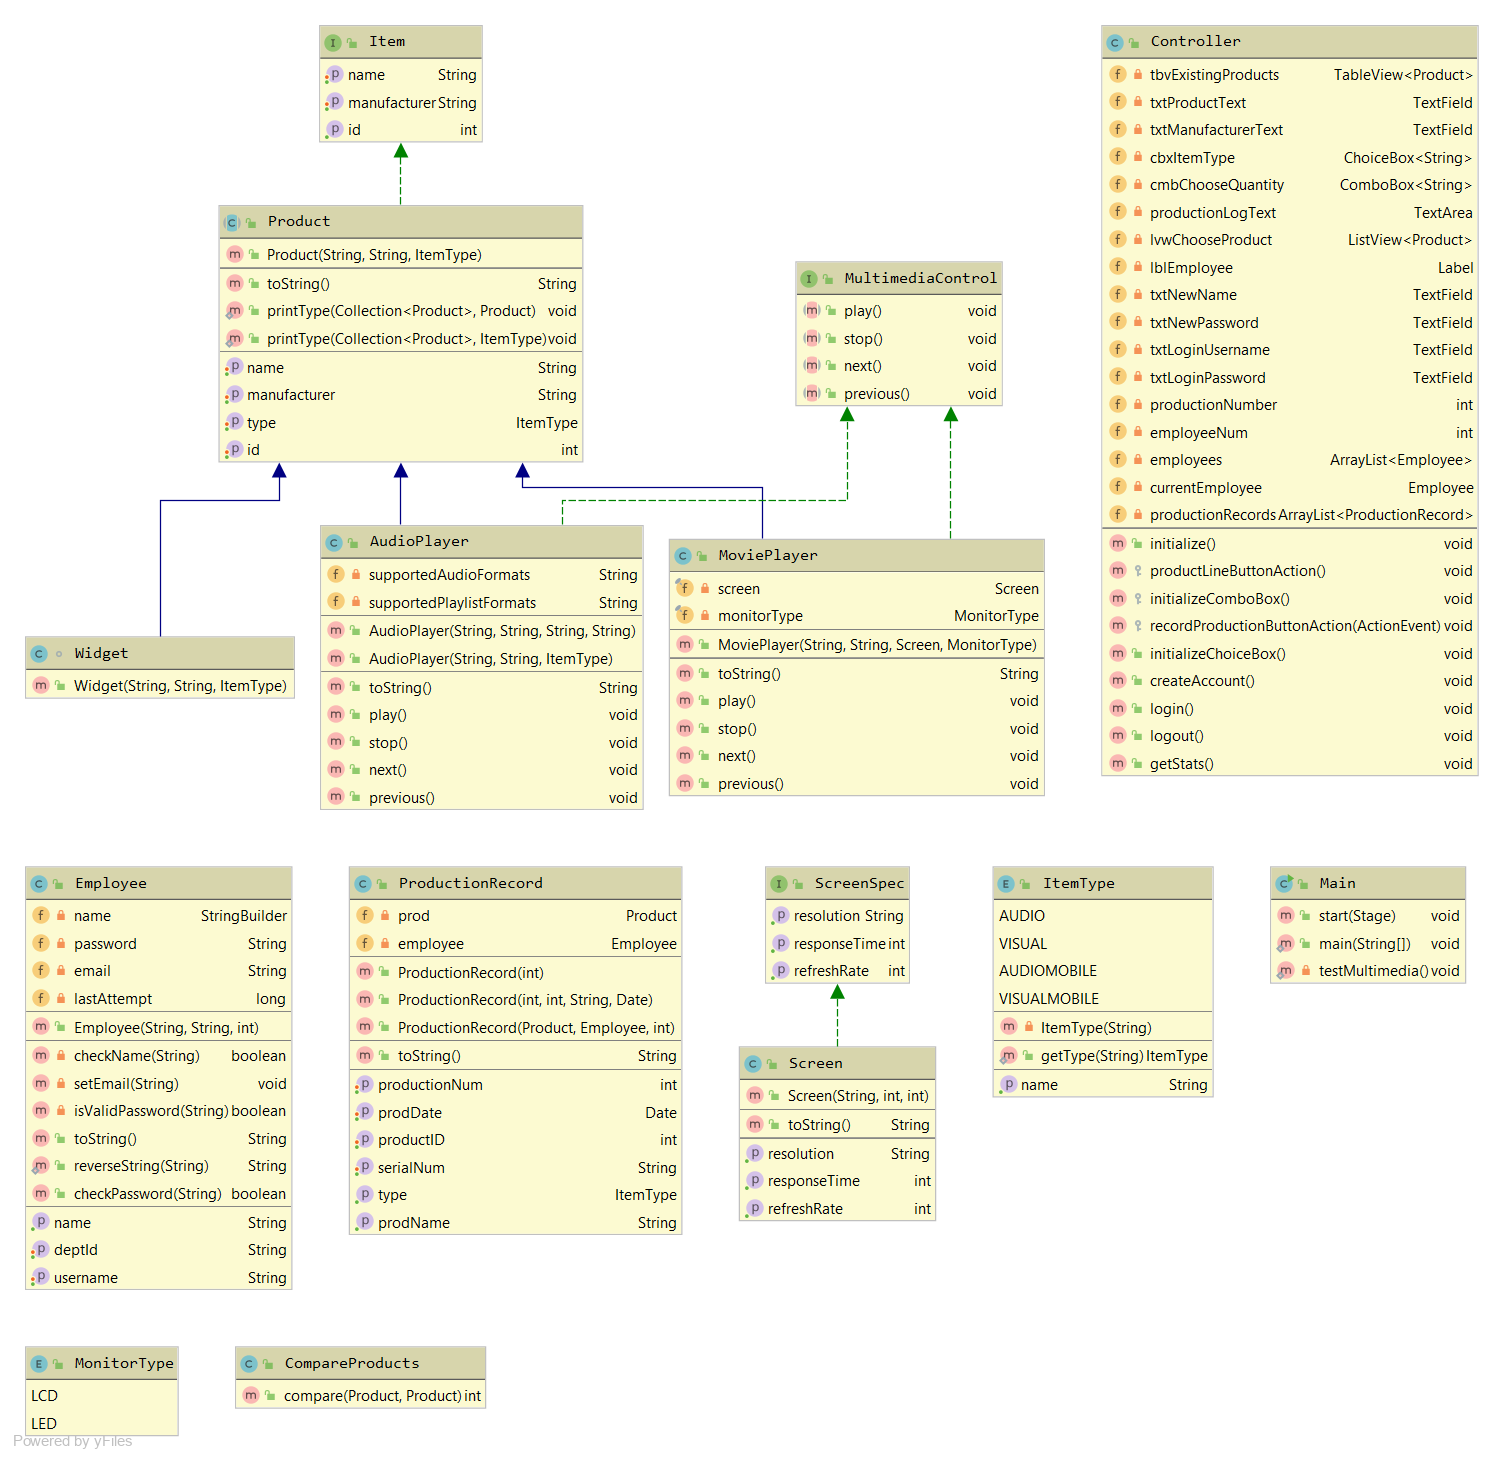
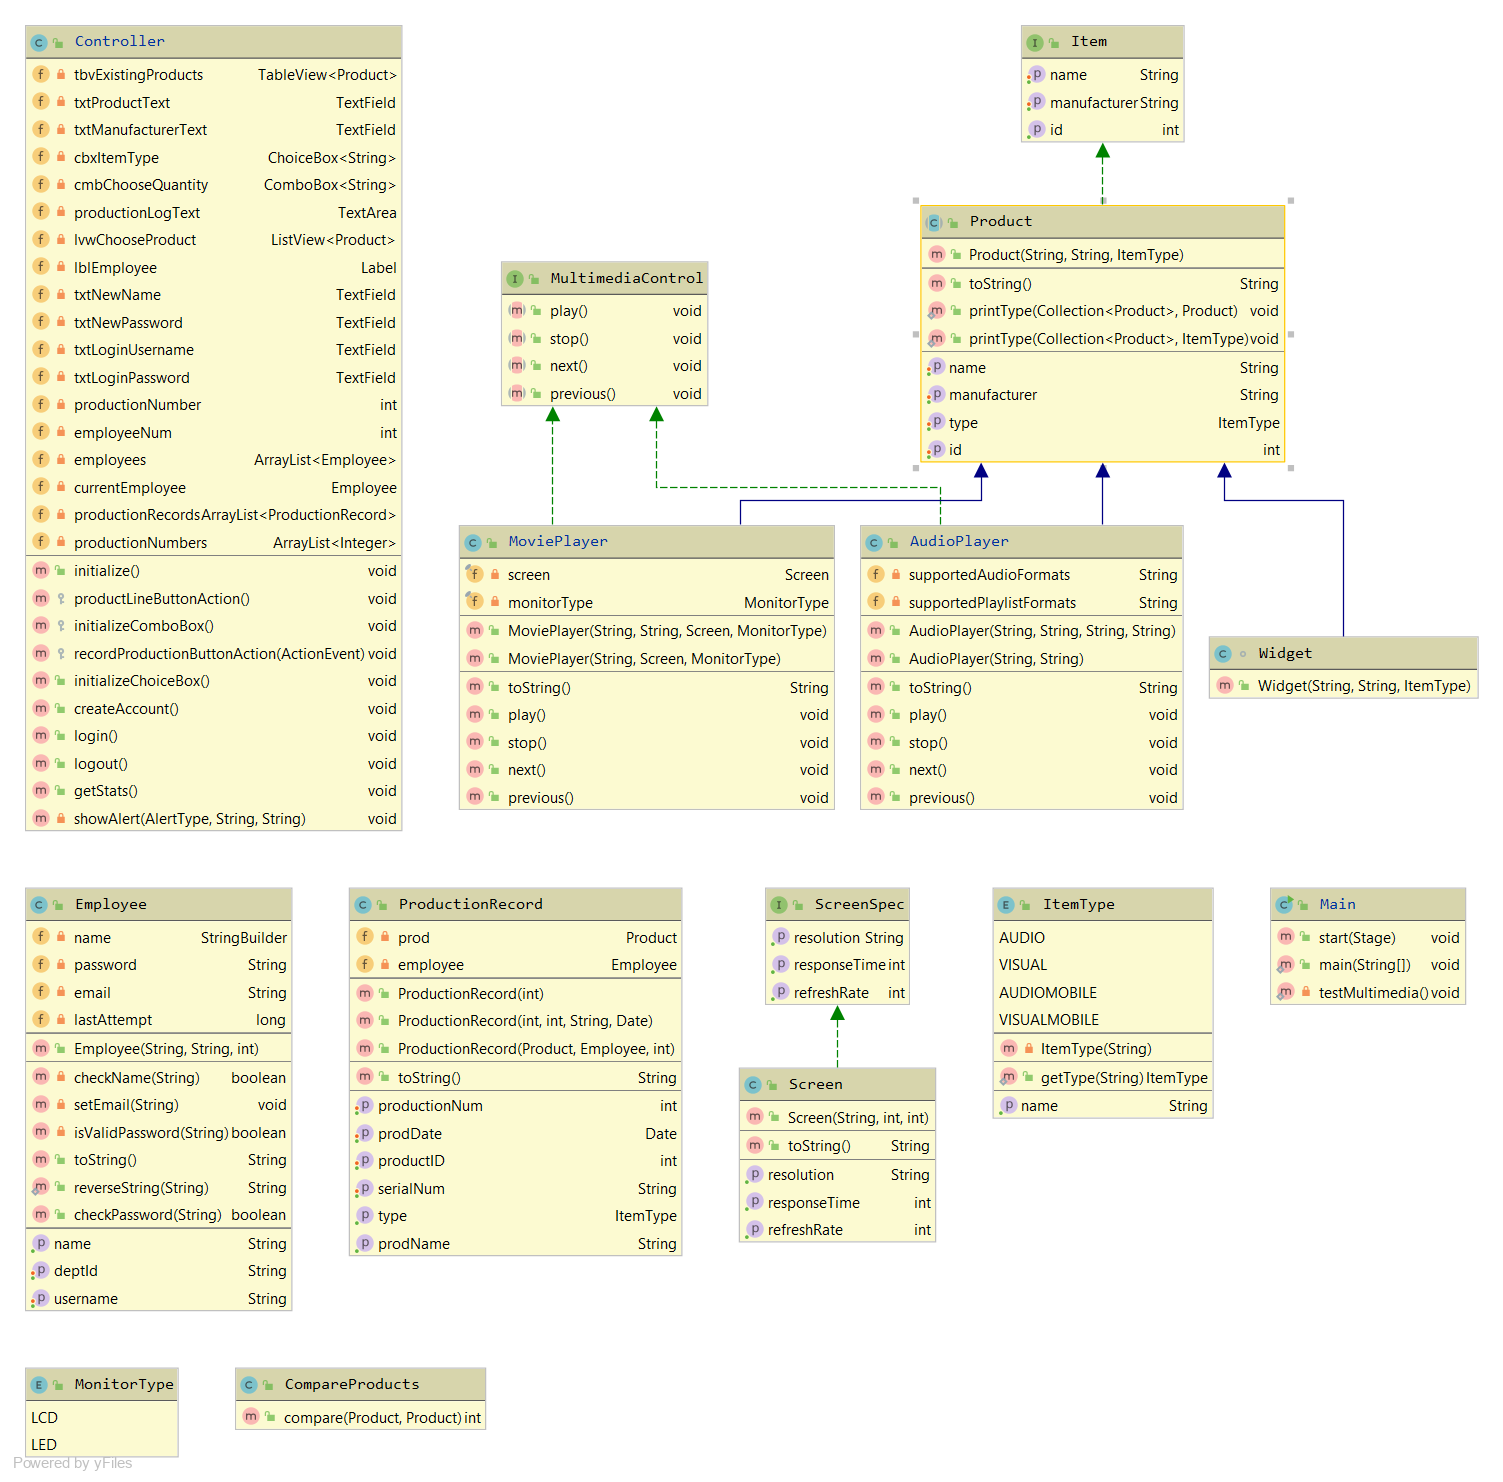
Fixed deviations from project specifications

diff --git a/docs/tomsh/MoviePlayer.html b/docs/tomsh/MoviePlayer.html
@@ -2,9 +2,9 @@
 <!-- NewPage -->
 <html lang="en">
 <head>
-<!-- Generated by javadoc (1.8.0_131) on Sun Nov 24 03:04:24 EST 2019 -->
+<!-- Generated by javadoc (1.8.0_131) on Sat Nov 30 02:17:11 EST 2019 -->
 <title>MoviePlayer</title>
-<meta name="date" content="2019-11-24">
+<meta name="date" content="2019-11-30">
 <link rel="stylesheet" type="text/css" href="../stylesheet.css" title="Style">
 <script type="text/javascript" src="../script.js"></script>
 </head>
@@ -138,6 +138,13 @@ implements <a href="../tomsh/MultimediaControl.html" title="interface in tomsh">
 <th class="colOne" scope="col">Constructor and Description</th>
 </tr>
 <tr class="altColor">
+<td class="colOne"><code><span class="memberNameLink"><a href="../tomsh/MoviePlayer.html#MoviePlayer-java.lang.String-tomsh.Screen-tomsh.MonitorType-">MoviePlayer</a></span>(java.lang.String&nbsp;name,
+           <a href="../tomsh/Screen.html" title="class in tomsh">Screen</a>&nbsp;screen,
+           <a href="../tomsh/MonitorType.html" title="enum in tomsh">MonitorType</a>&nbsp;monitorType)</code>
+<div class="block">Generates a movie player based upon its name, screen, and monitor type.</div>
+</td>
+</tr>
+<tr class="rowColor">
 <td class="colOne"><code><span class="memberNameLink"><a href="../tomsh/MoviePlayer.html#MoviePlayer-java.lang.String-java.lang.String-tomsh.Screen-tomsh.MonitorType-">MoviePlayer</a></span>(java.lang.String&nbsp;name,
            java.lang.String&nbsp;manufacturer,
            <a href="../tomsh/Screen.html" title="class in tomsh">Screen</a>&nbsp;screen,
@@ -212,7 +219,7 @@ implements <a href="../tomsh/MultimediaControl.html" title="interface in tomsh">
 <a name="MoviePlayer-java.lang.String-java.lang.String-tomsh.Screen-tomsh.MonitorType-">
 <!--   -->
 </a>
-<ul class="blockListLast">
+<ul class="blockList">
 <li class="blockList">
 <h4>MoviePlayer</h4>
 <pre>public&nbsp;MoviePlayer(java.lang.String&nbsp;name,
@@ -226,6 +233,24 @@ implements <a href="../tomsh/MultimediaControl.html" title="interface in tomsh">
 <dd><code>manufacturer</code> - its manufacturer</dd>
 <dd><code>screen</code> - the Screen object associated with it</dd>
 <dd><code>monitorType</code> - the MonitorType associated with it</dd>
+</dl>
+</li>
+</ul>
+<a name="MoviePlayer-java.lang.String-tomsh.Screen-tomsh.MonitorType-">
+<!--   -->
+</a>
+<ul class="blockListLast">
+<li class="blockList">
+<h4>MoviePlayer</h4>
+<pre>public&nbsp;MoviePlayer(java.lang.String&nbsp;name,
+                   <a href="../tomsh/Screen.html" title="class in tomsh">Screen</a>&nbsp;screen,
+                   <a href="../tomsh/MonitorType.html" title="enum in tomsh">MonitorType</a>&nbsp;monitorType)</pre>
+<div class="block">Generates a movie player based upon its name, screen, and monitor type.</div>
+<dl>
+<dt><span class="paramLabel">Parameters:</span></dt>
+<dd><code>name</code> - the name of the MoviePlayer</dd>
+<dd><code>screen</code> - the MoviePlayer's Screen</dd>
+<dd><code>monitorType</code> - the type of monitor it uses</dd>
 </dl>
 </li>
 </ul>

diff --git a/docs/tomsh/AudioPlayer.html b/docs/tomsh/AudioPlayer.html
@@ -2,9 +2,9 @@
 <!-- NewPage -->
 <html lang="en">
 <head>
-<!-- Generated by javadoc (1.8.0_131) on Sun Nov 24 03:04:23 EST 2019 -->
+<!-- Generated by javadoc (1.8.0_131) on Sat Nov 30 02:17:10 EST 2019 -->
 <title>AudioPlayer</title>
-<meta name="date" content="2019-11-24">
+<meta name="date" content="2019-11-30">
 <link rel="stylesheet" type="text/css" href="../stylesheet.css" title="Style">
 <script type="text/javascript" src="../script.js"></script>
 </head>
@@ -138,9 +138,8 @@ implements <a href="../tomsh/MultimediaControl.html" title="interface in tomsh">
 <th class="colOne" scope="col">Constructor and Description</th>
 </tr>
 <tr class="altColor">
-<td class="colOne"><code><span class="memberNameLink"><a href="../tomsh/AudioPlayer.html#AudioPlayer-java.lang.String-java.lang.String-tomsh.ItemType-">AudioPlayer</a></span>(java.lang.String&nbsp;n,
-           java.lang.String&nbsp;m,
-           <a href="../tomsh/ItemType.html" title="enum in tomsh">ItemType</a>&nbsp;t)</code>
+<td class="colOne"><code><span class="memberNameLink"><a href="../tomsh/AudioPlayer.html#AudioPlayer-java.lang.String-java.lang.String-">AudioPlayer</a></span>(java.lang.String&nbsp;n,
+           java.lang.String&nbsp;m)</code>
 <div class="block">Default constructor.</div>
 </td>
 </tr>
@@ -236,21 +235,19 @@ implements <a href="../tomsh/MultimediaControl.html" title="interface in tomsh">
 </dl>
 </li>
 </ul>
-<a name="AudioPlayer-java.lang.String-java.lang.String-tomsh.ItemType-">
+<a name="AudioPlayer-java.lang.String-java.lang.String-">
 <!--   -->
 </a>
 <ul class="blockListLast">
 <li class="blockList">
 <h4>AudioPlayer</h4>
 <pre>public&nbsp;AudioPlayer(java.lang.String&nbsp;n,
-                   java.lang.String&nbsp;m,
-                   <a href="../tomsh/ItemType.html" title="enum in tomsh">ItemType</a>&nbsp;t)</pre>
+                   java.lang.String&nbsp;m)</pre>
 <div class="block">Default constructor.</div>
 <dl>
 <dt><span class="paramLabel">Parameters:</span></dt>
 <dd><code>n</code> - name</dd>
 <dd><code>m</code> - manufacturer</dd>
-<dd><code>t</code> - type</dd>
 </dl>
 </li>
 </ul>

diff --git a/docs/index-files/index-7.html b/docs/index-files/index-7.html
@@ -2,9 +2,9 @@
 <!-- NewPage -->
 <html lang="en">
 <head>
-<!-- Generated by javadoc (1.8.0_131) on Sun Nov 24 03:04:24 EST 2019 -->
+<!-- Generated by javadoc (1.8.0_131) on Sat Nov 30 02:17:11 EST 2019 -->
 <title>M-Index</title>
-<meta name="date" content="2019-11-24">
+<meta name="date" content="2019-11-30">
 <link rel="stylesheet" type="text/css" href="../stylesheet.css" title="Style">
 <script type="text/javascript" src="../script.js"></script>
 </head>
@@ -93,6 +93,10 @@
 <dt><span class="memberNameLink"><a href="../tomsh/MoviePlayer.html#MoviePlayer-java.lang.String-java.lang.String-tomsh.Screen-tomsh.MonitorType-">MoviePlayer(String, String, Screen, MonitorType)</a></span> - Constructor for class tomsh.<a href="../tomsh/MoviePlayer.html" title="class in tomsh">MoviePlayer</a></dt>
 <dd>
 <div class="block">Constructor, manually sets all variables except type, which is set to VISUAL.</div>
+</dd>
+<dt><span class="memberNameLink"><a href="../tomsh/MoviePlayer.html#MoviePlayer-java.lang.String-tomsh.Screen-tomsh.MonitorType-">MoviePlayer(String, Screen, MonitorType)</a></span> - Constructor for class tomsh.<a href="../tomsh/MoviePlayer.html" title="class in tomsh">MoviePlayer</a></dt>
+<dd>
+<div class="block">Generates a movie player based upon its name, screen, and monitor type.</div>
 </dd>
 <dt><a href="../tomsh/MultimediaControl.html" title="interface in tomsh"><span class="typeNameLink">MultimediaControl</span></a> - Interface in <a href="../tomsh/package-summary.html">tomsh</a></dt>
 <dd>

diff --git a/docs/index-files/index-1.html b/docs/index-files/index-1.html
@@ -2,9 +2,9 @@
 <!-- NewPage -->
 <html lang="en">
 <head>
-<!-- Generated by javadoc (1.8.0_131) on Sun Nov 24 03:04:24 EST 2019 -->
+<!-- Generated by javadoc (1.8.0_131) on Sat Nov 30 02:17:11 EST 2019 -->
 <title>A-Index</title>
-<meta name="date" content="2019-11-24">
+<meta name="date" content="2019-11-30">
 <link rel="stylesheet" type="text/css" href="../stylesheet.css" title="Style">
 <script type="text/javascript" src="../script.js"></script>
 </head>
@@ -80,7 +80,7 @@
 <dd>
 <div class="block">Constructor.</div>
 </dd>
-<dt><span class="memberNameLink"><a href="../tomsh/AudioPlayer.html#AudioPlayer-java.lang.String-java.lang.String-tomsh.ItemType-">AudioPlayer(String, String, ItemType)</a></span> - Constructor for class tomsh.<a href="../tomsh/AudioPlayer.html" title="class in tomsh">AudioPlayer</a></dt>
+<dt><span class="memberNameLink"><a href="../tomsh/AudioPlayer.html#AudioPlayer-java.lang.String-java.lang.String-">AudioPlayer(String, String)</a></span> - Constructor for class tomsh.<a href="../tomsh/AudioPlayer.html" title="class in tomsh">AudioPlayer</a></dt>
 <dd>
 <div class="block">Default constructor.</div>
 </dd>

diff --git a/docs/tomsh/package-tree.html b/docs/tomsh/package-tree.html
@@ -2,9 +2,9 @@
 <!-- NewPage -->
 <html lang="en">
 <head>
-<!-- Generated by javadoc (1.8.0_131) on Sun Nov 24 03:04:24 EST 2019 -->
+<!-- Generated by javadoc (1.8.0_131) on Sat Nov 30 02:17:11 EST 2019 -->
 <title>tomsh Class Hierarchy</title>
-<meta name="date" content="2019-11-24">
+<meta name="date" content="2019-11-30">
 <link rel="stylesheet" type="text/css" href="../stylesheet.css" title="Style">
 <script type="text/javascript" src="../script.js"></script>
 </head>
@@ -106,8 +106,8 @@
 <ul>
 <li type="circle">java.lang.Enum&lt;E&gt; (implements java.lang.Comparable&lt;T&gt;, java.io.Serializable)
 <ul>
-<li type="circle">tomsh.<a href="../tomsh/ItemType.html" title="enum in tomsh"><span class="typeNameLink">ItemType</span></a></li>
 <li type="circle">tomsh.<a href="../tomsh/MonitorType.html" title="enum in tomsh"><span class="typeNameLink">MonitorType</span></a></li>
+<li type="circle">tomsh.<a href="../tomsh/ItemType.html" title="enum in tomsh"><span class="typeNameLink">ItemType</span></a></li>
 </ul>
 </li>
 </ul>

diff --git a/docs/tomsh/Main.html b/docs/tomsh/Main.html
@@ -2,9 +2,9 @@
 <!-- NewPage -->
 <html lang="en">
 <head>
-<!-- Generated by javadoc (1.8.0_131) on Sun Nov 24 03:04:23 EST 2019 -->
+<!-- Generated by javadoc (1.8.0_131) on Sat Nov 30 02:17:11 EST 2019 -->
 <title>Main</title>
-<meta name="date" content="2019-11-24">
+<meta name="date" content="2019-11-30">
 <link rel="stylesheet" type="text/css" href="../stylesheet.css" title="Style">
 <script type="text/javascript" src="../script.js"></script>
 </head>
@@ -115,7 +115,7 @@ var activeTableTab = "activeTableTab";
 <pre>public class <span class="typeNameLabel">Main</span>
 extends javafx.application.Application</pre>
 <div class="block">Runs a simulated product line. Records items that are added and their attributes. Most recent
- version is from 11/23/2019. Minor collaboration with Dory Mauretour.</div>
+ version is from 11/30/2019. Minor collaboration with Dory Mauretour.</div>
 </li>
 </ul>
 </div>

diff --git a/docs/tomsh/MultimediaControl.html b/docs/tomsh/MultimediaControl.html
@@ -2,9 +2,9 @@
 <!-- NewPage -->
 <html lang="en">
 <head>
-<!-- Generated by javadoc (1.8.0_131) on Sun Nov 24 03:04:24 EST 2019 -->
+<!-- Generated by javadoc (1.8.0_131) on Sat Nov 30 02:17:11 EST 2019 -->
 <title>MultimediaControl</title>
-<meta name="date" content="2019-11-24">
+<meta name="date" content="2019-11-30">
 <link rel="stylesheet" type="text/css" href="../stylesheet.css" title="Style">
 <script type="text/javascript" src="../script.js"></script>
 </head>

diff --git a/docs/tomsh/ProductionRecord.html b/docs/tomsh/ProductionRecord.html
@@ -2,9 +2,9 @@
 <!-- NewPage -->
 <html lang="en">
 <head>
-<!-- Generated by javadoc (1.8.0_131) on Sun Nov 24 03:04:24 EST 2019 -->
+<!-- Generated by javadoc (1.8.0_131) on Sat Nov 30 02:17:11 EST 2019 -->
 <title>ProductionRecord</title>
-<meta name="date" content="2019-11-24">
+<meta name="date" content="2019-11-30">
 <link rel="stylesheet" type="text/css" href="../stylesheet.css" title="Style">
 <script type="text/javascript" src="../script.js"></script>
 </head>

diff --git a/docs/constant-values.html b/docs/constant-values.html
@@ -2,9 +2,9 @@
 <!-- NewPage -->
 <html lang="en">
 <head>
-<!-- Generated by javadoc (1.8.0_131) on Sun Nov 24 03:04:24 EST 2019 -->
+<!-- Generated by javadoc (1.8.0_131) on Sat Nov 30 02:17:11 EST 2019 -->
 <title>Constant Field Values</title>
-<meta name="date" content="2019-11-24">
+<meta name="date" content="2019-11-30">
 <link rel="stylesheet" type="text/css" href="stylesheet.css" title="Style">
 <script type="text/javascript" src="script.js"></script>
 </head>

diff --git a/docs/tomsh/CompareProducts.html b/docs/tomsh/CompareProducts.html
@@ -2,9 +2,9 @@
 <!-- NewPage -->
 <html lang="en">
 <head>
-<!-- Generated by javadoc (1.8.0_131) on Sun Nov 24 03:04:23 EST 2019 -->
+<!-- Generated by javadoc (1.8.0_131) on Sat Nov 30 02:17:10 EST 2019 -->
 <title>CompareProducts</title>
-<meta name="date" content="2019-11-24">
+<meta name="date" content="2019-11-30">
 <link rel="stylesheet" type="text/css" href="../stylesheet.css" title="Style">
 <script type="text/javascript" src="../script.js"></script>
 </head>

diff --git a/docs/tomsh/MonitorType.html b/docs/tomsh/MonitorType.html
@@ -2,9 +2,9 @@
 <!-- NewPage -->
 <html lang="en">
 <head>
-<!-- Generated by javadoc (1.8.0_131) on Sun Nov 24 03:04:23 EST 2019 -->
+<!-- Generated by javadoc (1.8.0_131) on Sat Nov 30 02:17:11 EST 2019 -->
 <title>MonitorType</title>
-<meta name="date" content="2019-11-24">
+<meta name="date" content="2019-11-30">
 <link rel="stylesheet" type="text/css" href="../stylesheet.css" title="Style">
 <script type="text/javascript" src="../script.js"></script>
 </head>

diff --git a/docs/tomsh/Controller.html b/docs/tomsh/Controller.html
@@ -2,9 +2,9 @@
 <!-- NewPage -->
 <html lang="en">
 <head>
-<!-- Generated by javadoc (1.8.0_131) on Sun Nov 24 03:04:23 EST 2019 -->
+<!-- Generated by javadoc (1.8.0_131) on Sat Nov 30 02:17:10 EST 2019 -->
 <title>Controller</title>
-<meta name="date" content="2019-11-24">
+<meta name="date" content="2019-11-30">
 <link rel="stylesheet" type="text/css" href="../stylesheet.css" title="Style">
 <script type="text/javascript" src="../script.js"></script>
 </head>
